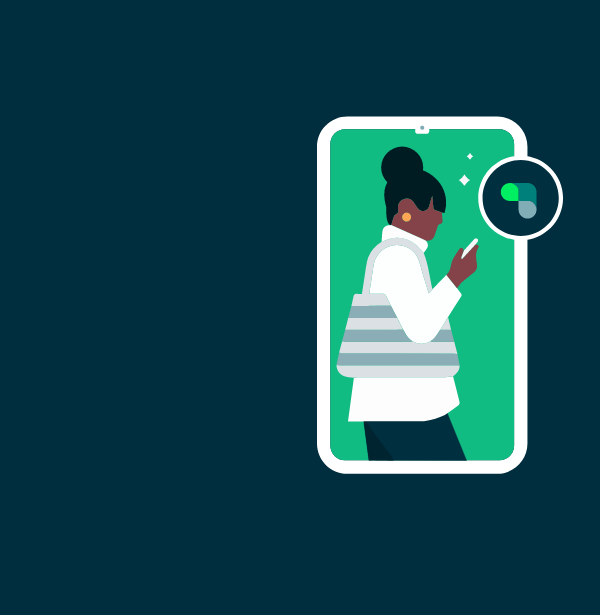
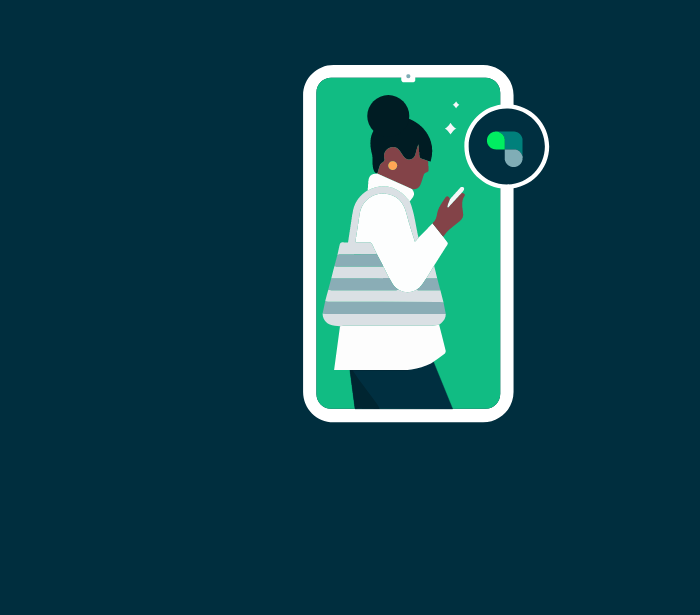
Change the product bg image

Changed region(s): [[0.42, 0.0927, 0.93, 0.7724], [0.93, 0.3089, 0.96, 0.3398]]

diff --git a/index.html b/index.html
@@ -66,9 +66,9 @@
        <div class="col-2"> </div>
       <div class="col ml-4 mt-4">
         
-        <h3 class="ml-4 mt-4">The Opportunity Platform.</h3>
-        <h3 class="ml-4" style="color: #00E972;">Coming Soon</h3>
-        <a  href="https://oye-app.com/" target="_blank"><h4 class="ml-4 mb-4 text-white">Website.</h4></a>
+        <h3 class=" mt-4">The Opportunity Platform.</h3>
+        <h3 class="" style="color: #00E972;">Coming Soon</h3>
+        <a  href="https://oye-app.com/" target="_blank"><h4 class="mb-4 text-white">Website.</h4></a>
                   
 
       </div>

diff --git a/style.css b/style.css
@@ -311,7 +311,9 @@ a.more{ font-size: 14px; font-weight: 700; }
       border-color:#000000;
       /* background-color:#122c47 */
    } 
-   
+   .product{
+     background-image: url(images/oyebanner-mobile.png);
+   }
   }
    
   .mission{
